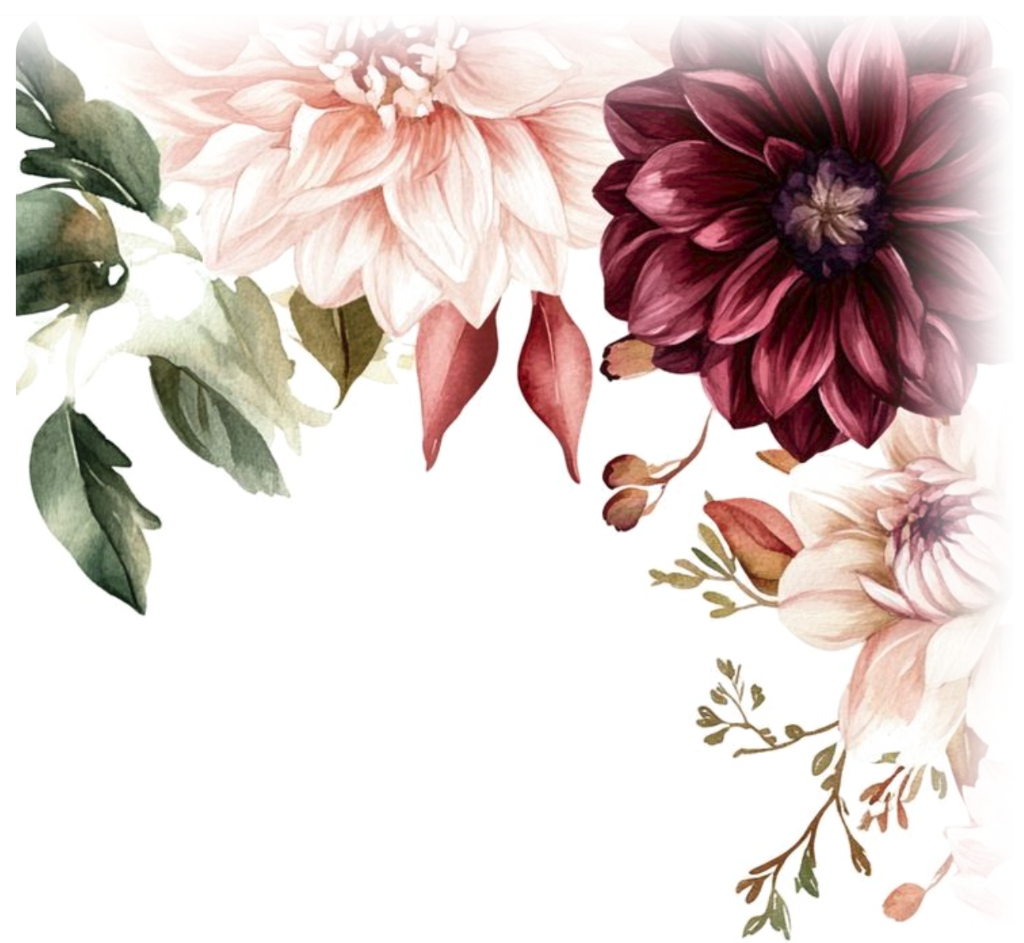
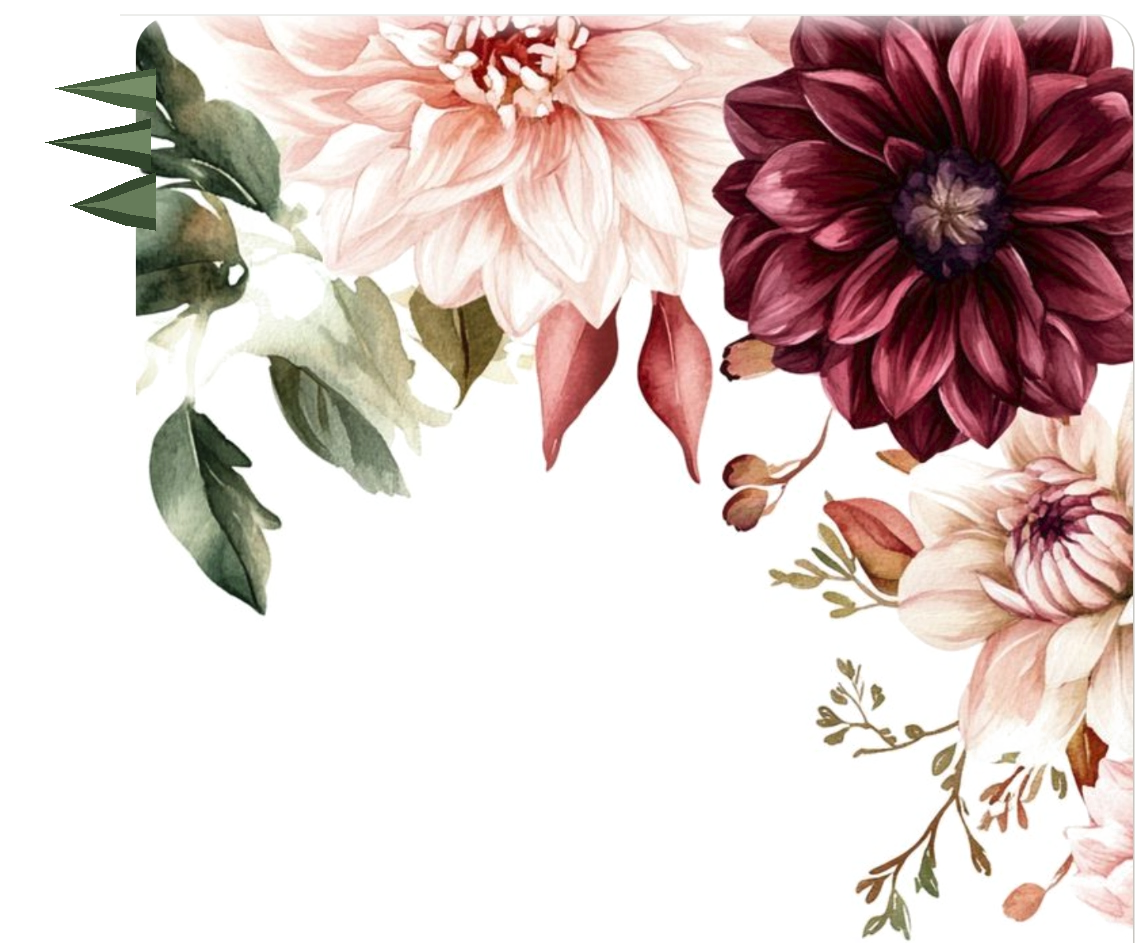
feat: completate punte organiche delle foglie a sinistra e scritte abbassate per evitare sovrapposizioni su iPhone

diff --git a/src/components/Hero.tsx b/src/components/Hero.tsx
@@ -2,12 +2,13 @@ import React from 'react';
 
 export const Hero: React.FC = () => {
   return (
-    <header className="relative pt-6 sm:pt-8 pb-6 sm:pb-8 px-4 text-center overflow-hidden flex flex-col items-center justify-center bg-white">
+    <header className="relative pt-24 sm:pt-28 pb-8 sm:pb-12 px-4 text-center overflow-hidden flex flex-col items-center justify-center bg-white">
       {/* 
-        Angolo Floreale Botanico (Proposta A a Destra con sfumatura organica):
-        Collocato nell'angolo superiore destro senza tagli squadrati, non copre le scritte
+        Angolo Floreale Botanico (Proposta A a Destra con foglie complete a punte naturali):
+        Collocato nell'angolo superiore destro, con foglie che terminano organicamente senza alcun taglio netto.
+        Dimensione calibrata su mobile (w-[180px] sm:w-[260px] md:w-[340px]) per non invadere lo spazio del testo.
       */}
-      <div className="absolute top-0 right-0 w-[240px] sm:w-[320px] md:w-[400px] pointer-events-none select-none z-0">
+      <div className="absolute top-0 right-0 w-[180px] sm:w-[260px] md:w-[340px] pointer-events-none select-none z-0">
         <img
           src="./images/corner_floreale_top_right.png"
           alt="Angolo floreale di dalie ad acquerello"
@@ -32,7 +33,11 @@ export const Hero: React.FC = () => {
         </picture>
       </div>
 
-      <div className="max-w-3xl mx-auto relative z-10 w-full -mt-2 sm:-mt-3">
+      {/* 
+        Contenitore Testi abbassato (pt-24 su mobile) per garantire spazio d'aria aureo
+        e zero sovrapposizioni tra il fiore nell'angolo e 'Partecipazione di Nozze' / 'Michele'
+      */}
+      <div className="max-w-3xl mx-auto relative z-10 w-full mt-4 sm:mt-6">
         {/* Sovratitolo in Verde Salvia Nobile (#626a3a) con spaziatura inferiore aurea aumentata */}
         <p className="font-sans text-xs uppercase tracking-[0.35em] text-sage font-medium mb-3 sm:mb-4">
           Partecipazione di Nozze
